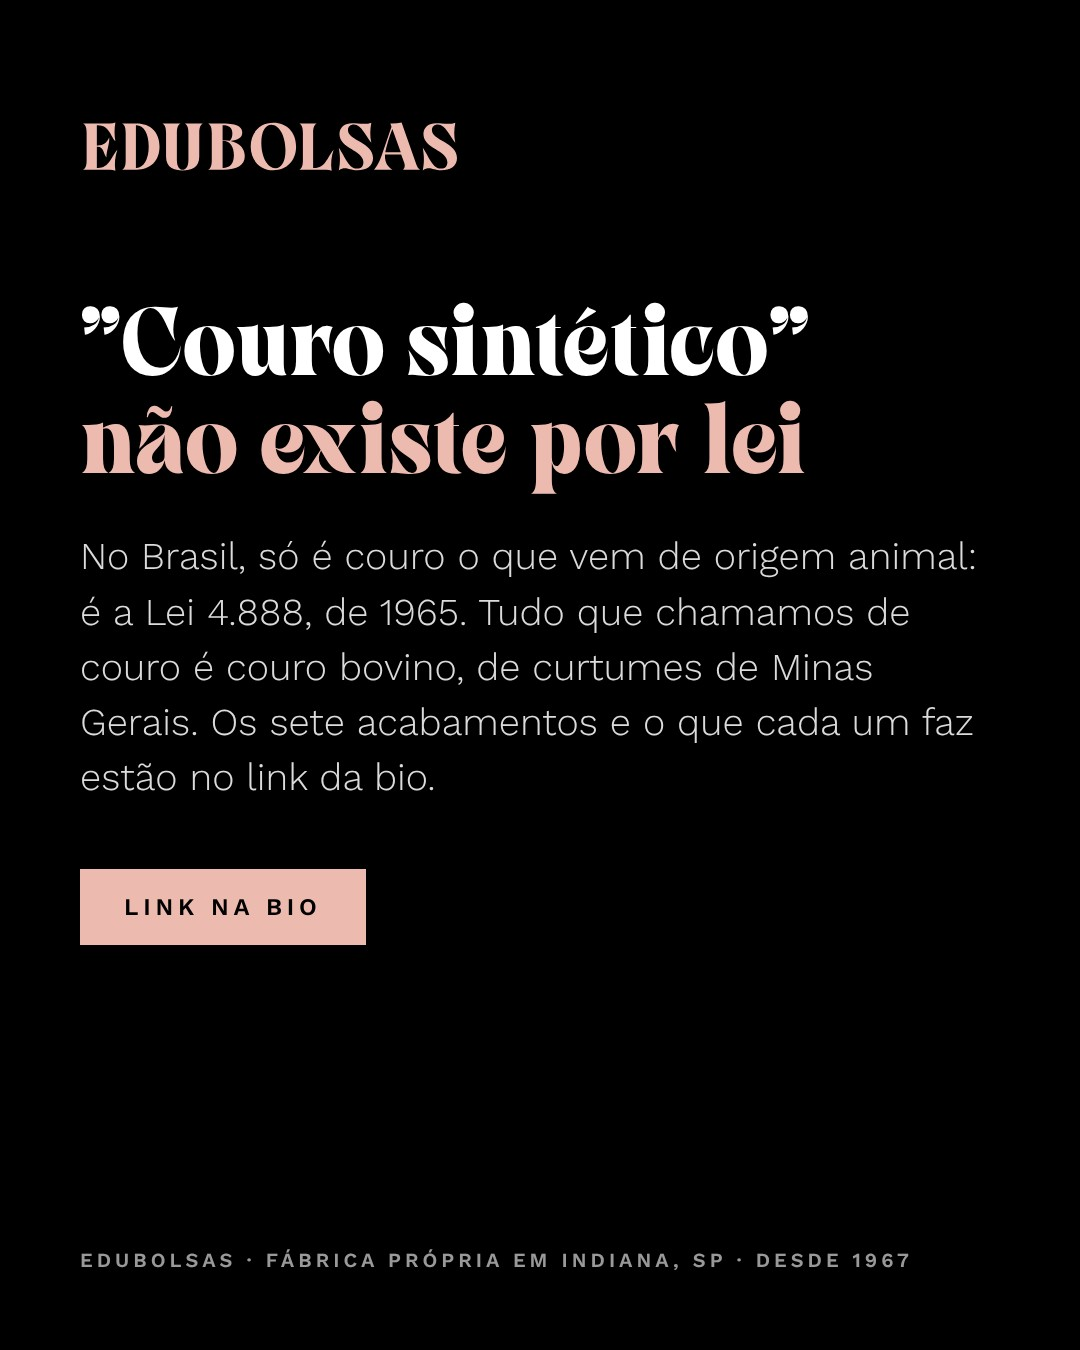
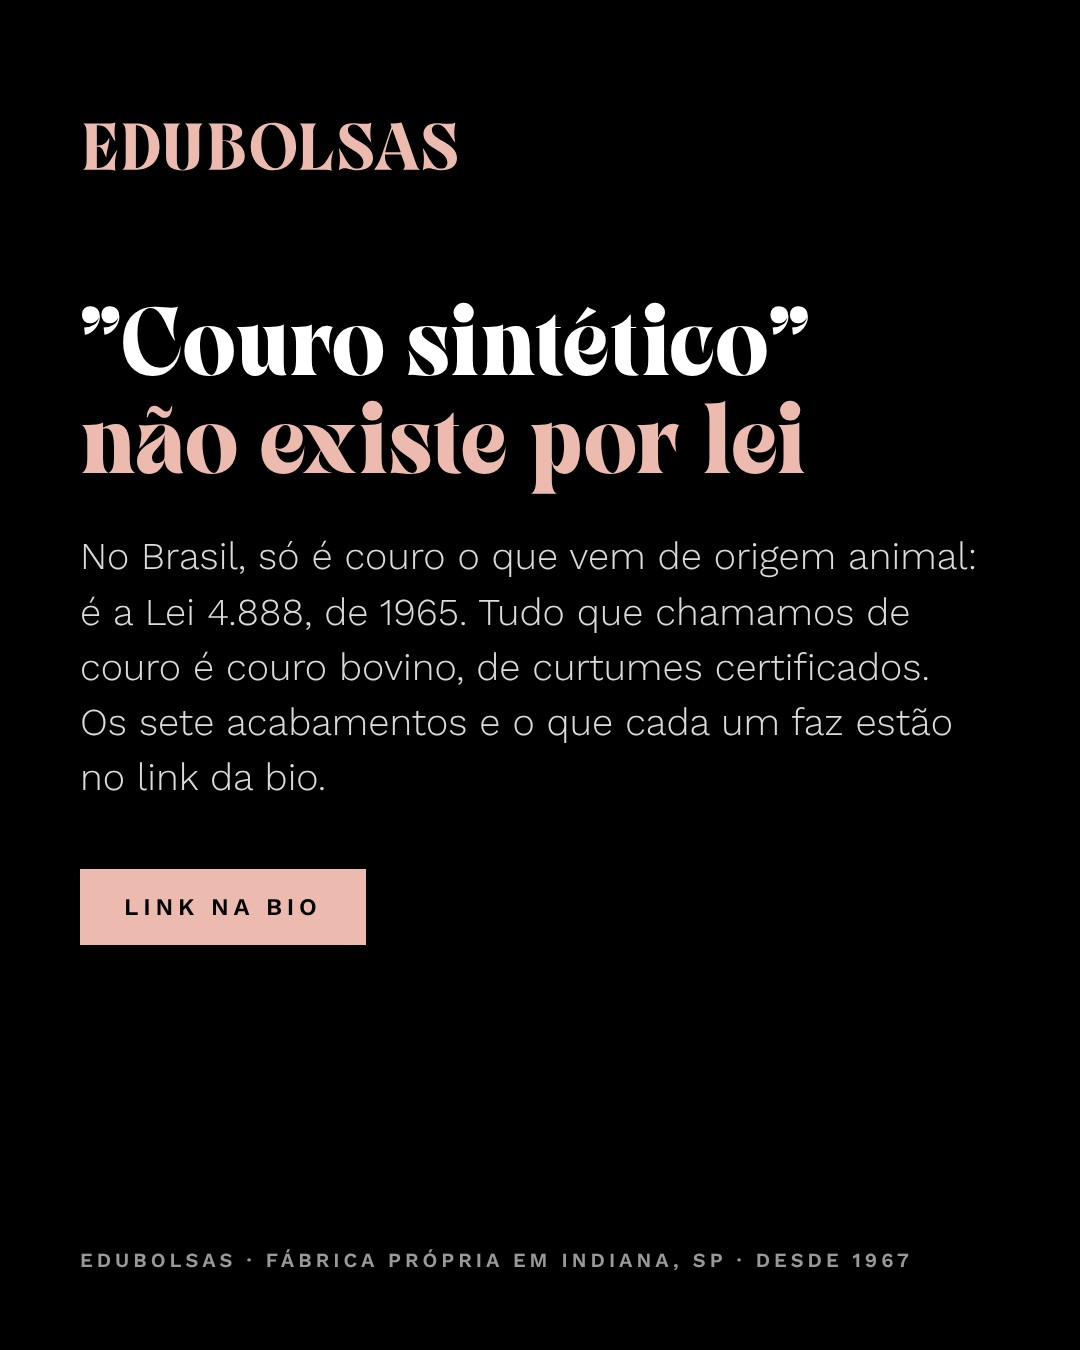
Troca "curtumes de Minas Gerais" por "curtumes certificados" nas artes e nos e-mails
Claude-Session: https://claude.ai/code/session_01MerzcwDbRuXYT3xBU3H5Yw

Changed region(s): [[0.0611, 0.4667, 0.8861, 0.5911]]

diff --git a/divulgacao/emails/etapa2-atacado.html b/divulgacao/emails/etapa2-atacado.html
@@ -3,6 +3,6 @@
 <tr><td style="padding:0;"><a href="None"><img src="https://raw.githubusercontent.com/edubolsassite-gif/edubolsasstore-redirect/claude/laughing-galileo-c6bj91/public/img/divulgacao/fotos/tassel-verso-couro.jpg" alt="Tassel de couro legítimo com o verso aveludado à vista, bolsas da Edubolsas" width="600" style="display:block;width:100%;height:auto;border:0;"></a></td></tr>
 <tr><td class="eb-pad" style="padding:28px 32px 6px 32px;"><p style="margin:0 0 6px 0;font-size:11px;line-height:1.4;letter-spacing:2px;text-transform:uppercase;color:#C8907F;font-weight:bold;">Fábrica Edubolsas · Indiana, SP</p><h1 style="margin:0 0 18px 0;font-size:26px;line-height:1.25;color:#000000;font-weight:bold;">O argumento de venda que a sua cliente entende: couro de verdade</h1><p style="margin:0 0 18px 0;font-size:16px;line-height:1.65;color:#3a3a3a;">Olá, {{ contact.NOME|lower|title }},</p><p style="margin:0 0 14px 0;font-size:16px;line-height:1.65;color:#3a3a3a;">Quando a cliente pergunta "é couro mesmo?", a resposta está nesta página: o verso da pele, o cheiro, a dobra e o fato de que couro não descasca. E ainda a lei do couro, que proíbe chamar sintético de couro.</p></td></tr>
 <tr><td class="eb-pad" align="left" style="padding:6px 32px 18px 32px;"><table role="presentation" cellpadding="0" cellspacing="0" border="0"><tr><td bgcolor="#000000" style="background:#000000;"><a href="None" style="display:inline-block;padding:15px 30px;font-size:12px;line-height:16px;font-weight:bold;color:#FFFFFF;text-decoration:none;letter-spacing:2px;text-transform:uppercase;">Ver qual couro usamos</a></td></tr></table></td></tr>
-<tr><td class="eb-pad" style="padding:4px 28px 6px 28px;"><table role="presentation" width="100%" cellpadding="0" cellspacing="0" border="0"><tr><td width="33%" style="padding:0 4px;"><a href="None"><img src="https://raw.githubusercontent.com/edubolsassite-gif/edubolsasstore-redirect/claude/laughing-galileo-c6bj91/public/img/divulgacao/etapa2-couro-de-verdade/slide-02.jpg" alt="" width="176" style="display:block;width:100%;height:auto;border:0;"></a></td><td width="33%" style="padding:0 4px;"><a href="None"><img src="https://raw.githubusercontent.com/edubolsassite-gif/edubolsasstore-redirect/claude/laughing-galileo-c6bj91/public/img/divulgacao/etapa2-couro-de-verdade/slide-03.jpg" alt="" width="176" style="display:block;width:100%;height:auto;border:0;"></a></td><td width="33%" style="padding:0 4px;"><a href="None"><img src="https://raw.githubusercontent.com/edubolsassite-gif/edubolsasstore-redirect/claude/laughing-galileo-c6bj91/public/img/divulgacao/etapa2-couro-de-verdade/slide-04.jpg" alt="" width="176" style="display:block;width:100%;height:auto;border:0;"></a></td></tr></table></td></tr><tr><td class="eb-pad" style="padding:0 32px 16px 32px;"><p style="margin:0;font-size:13px;line-height:1.6;color:#6b5a54;">Este tema também está no nosso <a href="https://www.instagram.com/edubolsasoficial" style="color:#6b5a54;text-decoration:underline;">Instagram</a>, em carrossel.</p></td></tr><tr><td class="eb-pad" style="padding:6px 32px 4px 32px;"><p style="margin:0 0 14px 0;font-size:15px;line-height:1.65;color:#3a3a3a;">Todas as nossas peças são de couro bovino, de curtumes de Minas Gerais, com certificado de autenticidade e garantia de fábrica de 1 ano para lojistas. A página também explica qual acabamento combina com cada tipo de bolsa, o que ajuda a montar o mix da loja.</p></td></tr><tr><td class="eb-pad" style="padding:0 32px 12px 32px;"><p style="margin:0;font-size:14px;line-height:1.65;"><a href="None" style="color:#000000;font-weight:bold;text-decoration:underline;">Catálogo de atacado →</a></p></td></tr>
+<tr><td class="eb-pad" style="padding:4px 28px 6px 28px;"><table role="presentation" width="100%" cellpadding="0" cellspacing="0" border="0"><tr><td width="33%" style="padding:0 4px;"><a href="None"><img src="https://raw.githubusercontent.com/edubolsassite-gif/edubolsasstore-redirect/claude/laughing-galileo-c6bj91/public/img/divulgacao/etapa2-couro-de-verdade/slide-02.jpg" alt="" width="176" style="display:block;width:100%;height:auto;border:0;"></a></td><td width="33%" style="padding:0 4px;"><a href="None"><img src="https://raw.githubusercontent.com/edubolsassite-gif/edubolsasstore-redirect/claude/laughing-galileo-c6bj91/public/img/divulgacao/etapa2-couro-de-verdade/slide-03.jpg" alt="" width="176" style="display:block;width:100%;height:auto;border:0;"></a></td><td width="33%" style="padding:0 4px;"><a href="None"><img src="https://raw.githubusercontent.com/edubolsassite-gif/edubolsasstore-redirect/claude/laughing-galileo-c6bj91/public/img/divulgacao/etapa2-couro-de-verdade/slide-04.jpg" alt="" width="176" style="display:block;width:100%;height:auto;border:0;"></a></td></tr></table></td></tr><tr><td class="eb-pad" style="padding:0 32px 16px 32px;"><p style="margin:0;font-size:13px;line-height:1.6;color:#6b5a54;">Este tema também está no nosso <a href="https://www.instagram.com/edubolsasoficial" style="color:#6b5a54;text-decoration:underline;">Instagram</a>, em carrossel.</p></td></tr><tr><td class="eb-pad" style="padding:6px 32px 4px 32px;"><p style="margin:0 0 14px 0;font-size:15px;line-height:1.65;color:#3a3a3a;">Todas as nossas peças são de couro bovino, de curtumes certificados, com certificado de autenticidade e garantia de fábrica de 1 ano para lojistas. A página também explica qual acabamento combina com cada tipo de bolsa, o que ajuda a montar o mix da loja.</p></td></tr><tr><td class="eb-pad" style="padding:0 32px 12px 32px;"><p style="margin:0;font-size:14px;line-height:1.65;"><a href="None" style="color:#000000;font-weight:bold;text-decoration:underline;">Catálogo de atacado →</a></p></td></tr>
 <tr><td class="eb-pad" style="padding:20px 32px 24px 32px;"><p style="margin:0 0 14px 0;font-size:15px;line-height:1.6;color:#3a3a3a;">Um abraço,<br><strong style="color:#000000;">Equipe Edubolsas</strong><br><span style="font-size:13px;color:#6b5a54;">Da nossa fábrica em Indiana-SP, desde 1967.</span></p><p style="margin:0;font-size:12px;line-height:1.9;color:#555555;"><span style="white-space:nowrap;"><span style="color:#C8907F;">&#9632;</span> Couro legítimo</span> &nbsp;&nbsp; <span style="white-space:nowrap;"><span style="color:#C8907F;">&#9632;</span> Fabricação própria desde 1967</span> &nbsp;&nbsp; <span style="white-space:nowrap;"><span style="color:#C8907F;">&#9632;</span> Garantia de fábrica de 1 ano para lojistas</span></p><p style="margin:10px 0 0 0;font-size:13px;line-height:1.6;color:#3a3a3a;">WhatsApp: (18) 3995-1124 · edubolsas@edubolsas.com.br</p></td></tr>
 <tr><td class="eb-pad" style="padding:18px 32px 22px 32px;background:#FBF4F1;border-top:1px solid #EDBAAF;"><p style="margin:0 0 8px 0;font-size:12px;line-height:1.6;color:#6b5a54;">Você recebeu este e-mail porque é lojista cadastrado na Edubolsas. Se não quiser mais receber nossos e-mails, é só <a href="{{ unsubscribe }}" style="color:#6b5a54;text-decoration:underline;">cancelar a inscrição</a>.</p><p style="margin:0 0 8px 0;font-size:12px;line-height:1.6;color:#6b5a54;"><a href="None" style="color:#6b5a54;text-decoration:underline;">edubolsas.com.br</a> &nbsp;·&nbsp; <a href="https://www.instagram.com/edubolsasoficial" style="color:#6b5a54;text-decoration:underline;">Instagram</a> &nbsp;·&nbsp; <a href="{{ mirror }}" style="color:#6b5a54;text-decoration:underline;">Ver no navegador</a></p><p style="margin:0;font-size:11px;line-height:1.6;color:#8a7a74;">Bolsas e Cintos São Jorge LTDA · CNPJ 48.814.255/0001-14 · Rua Dr. João Munhoz, 366, Centro, Indiana-SP, CEP 19560-013</p></td></tr></table></td></tr></table></body></html>

diff --git a/divulgacao/emails/etapa2-varejo.html b/divulgacao/emails/etapa2-varejo.html
@@ -1,7 +1,7 @@
 <!DOCTYPE html><html lang="pt-BR"><head><meta http-equiv="Content-Type" content="text/html;charset=UTF-8"><meta name="viewport" content="width=device-width, initial-scale=1"><meta name="color-scheme" content="light only"><title>"Couro sintético" não existe. Veja como reconhecer o de verdade</title><!--[if !mso]><!--><link href="https://fonts.googleapis.com/css2?family=Work+Sans:wght@400;500;700&amp;display=swap" rel="stylesheet" type="text/css"><!--<![endif]--><style type="text/css">body{margin:0;padding:0;background:#F5EDE8;-webkit-text-size-adjust:100%;}img{border:0;outline:none;text-decoration:none;}table{border-collapse:collapse;}@media only screen and (max-width:620px){.eb-pad{padding-left:20px !important;padding-right:20px !important;}.eb-outer{padding:0 !important;}}</style></head><body style="margin:0;padding:0;background:#F5EDE8;"><div style="display:none;max-height:0;overflow:hidden;mso-hide:all;font-size:1px;line-height:1px;color:#F5EDE8;">Quatro sinais que não falham, e o que diz a lei do couro.</div><table role="presentation" width="100%" cellpadding="0" cellspacing="0" border="0" bgcolor="#F5EDE8" style="background:#F5EDE8;"><tr><td class="eb-outer" align="center" style="padding:24px 12px;"><table role="presentation" width="600" cellpadding="0" cellspacing="0" border="0" style="width:100%;max-width:600px;background:#FFFFFF;font-family:'Work Sans',Arial,Helvetica,sans-serif;color:#1A1A1A;">
 <tr><td align="center" style="padding:22px 24px 18px 24px;border-bottom:1px solid #EDBAAF;"><a href="None" style="text-decoration:none;"><img src="https://edubolsas.cdn.magazord.com.br/resources/logo-email.jpg" alt="Edubolsas" width="230" style="display:block;width:230px;max-width:70%;height:auto;border:0;"></a></td></tr>
 <tr><td style="padding:0;"><a href="None"><img src="https://raw.githubusercontent.com/edubolsassite-gif/edubolsasstore-redirect/claude/laughing-galileo-c6bj91/public/img/divulgacao/fotos/tassel-verso-couro.jpg" alt="Tassel de couro legítimo com o verso aveludado à vista, bolsas da Edubolsas" width="600" style="display:block;width:100%;height:auto;border:0;"></a></td></tr>
-<tr><td class="eb-pad" style="padding:28px 32px 6px 32px;"><p style="margin:0 0 6px 0;font-size:11px;line-height:1.4;letter-spacing:2px;text-transform:uppercase;color:#C8907F;font-weight:bold;">Fábrica Edubolsas · Indiana, SP</p><h1 style="margin:0 0 18px 0;font-size:26px;line-height:1.25;color:#000000;font-weight:bold;">"Couro sintético" não existe. Veja como reconhecer o de verdade</h1><p style="margin:0 0 18px 0;font-size:16px;line-height:1.65;color:#3a3a3a;">Olá, {{ contact.NOME|lower|title }},</p><p style="margin:0 0 14px 0;font-size:16px;line-height:1.65;color:#3a3a3a;">No Brasil, a palavra couro só pode ser usada para material de origem animal. É a Lei 4.888, de 1965. Tudo o que chamamos de couro na Edubolsas é couro bovino, de curtumes de Minas Gerais.</p><p style="margin:0 0 14px 0;font-size:16px;line-height:1.65;color:#3a3a3a;">Na página nova, contamos o que é o curtimento, para que serve cada um dos sete acabamentos que trabalhamos e os quatro sinais para reconhecer couro de verdade na mão: o verso, o cheiro, a dobra e o fato de que couro não descasca.</p></td></tr>
+<tr><td class="eb-pad" style="padding:28px 32px 6px 32px;"><p style="margin:0 0 6px 0;font-size:11px;line-height:1.4;letter-spacing:2px;text-transform:uppercase;color:#C8907F;font-weight:bold;">Fábrica Edubolsas · Indiana, SP</p><h1 style="margin:0 0 18px 0;font-size:26px;line-height:1.25;color:#000000;font-weight:bold;">"Couro sintético" não existe. Veja como reconhecer o de verdade</h1><p style="margin:0 0 18px 0;font-size:16px;line-height:1.65;color:#3a3a3a;">Olá, {{ contact.NOME|lower|title }},</p><p style="margin:0 0 14px 0;font-size:16px;line-height:1.65;color:#3a3a3a;">No Brasil, a palavra couro só pode ser usada para material de origem animal. É a Lei 4.888, de 1965. Tudo o que chamamos de couro na Edubolsas é couro bovino, de curtumes certificados.</p><p style="margin:0 0 14px 0;font-size:16px;line-height:1.65;color:#3a3a3a;">Na página nova, contamos o que é o curtimento, para que serve cada um dos sete acabamentos que trabalhamos e os quatro sinais para reconhecer couro de verdade na mão: o verso, o cheiro, a dobra e o fato de que couro não descasca.</p></td></tr>
 <tr><td class="eb-pad" align="left" style="padding:6px 32px 18px 32px;"><table role="presentation" cellpadding="0" cellspacing="0" border="0"><tr><td bgcolor="#000000" style="background:#000000;"><a href="None" style="display:inline-block;padding:15px 30px;font-size:12px;line-height:16px;font-weight:bold;color:#FFFFFF;text-decoration:none;letter-spacing:2px;text-transform:uppercase;">Ver qual couro usamos</a></td></tr></table></td></tr>
 <tr><td class="eb-pad" style="padding:4px 28px 6px 28px;"><table role="presentation" width="100%" cellpadding="0" cellspacing="0" border="0"><tr><td width="33%" style="padding:0 4px;"><a href="None"><img src="https://raw.githubusercontent.com/edubolsassite-gif/edubolsasstore-redirect/claude/laughing-galileo-c6bj91/public/img/divulgacao/etapa2-couro-de-verdade/slide-02.jpg" alt="" width="176" style="display:block;width:100%;height:auto;border:0;"></a></td><td width="33%" style="padding:0 4px;"><a href="None"><img src="https://raw.githubusercontent.com/edubolsassite-gif/edubolsasstore-redirect/claude/laughing-galileo-c6bj91/public/img/divulgacao/etapa2-couro-de-verdade/slide-03.jpg" alt="" width="176" style="display:block;width:100%;height:auto;border:0;"></a></td><td width="33%" style="padding:0 4px;"><a href="None"><img src="https://raw.githubusercontent.com/edubolsassite-gif/edubolsasstore-redirect/claude/laughing-galileo-c6bj91/public/img/divulgacao/etapa2-couro-de-verdade/slide-04.jpg" alt="" width="176" style="display:block;width:100%;height:auto;border:0;"></a></td></tr></table></td></tr><tr><td class="eb-pad" style="padding:0 32px 16px 32px;"><p style="margin:0;font-size:13px;line-height:1.6;color:#6b5a54;">Este tema também está no nosso <a href="https://www.instagram.com/edubolsasoficial" style="color:#6b5a54;text-decoration:underline;">Instagram</a>, em carrossel.</p></td></tr><tr><td class="eb-pad" style="padding:6px 32px 10px 32px;"><table role="presentation" width="100%" cellpadding="0" cellspacing="0" border="0"><tr><td style="background:#F6EFEB;padding:16px 18px;"><p style="margin:0;font-size:14px;line-height:1.6;color:#3a3a3a;"><strong>Dica da fábrica:</strong> croco, snake e arraia são couro bovino com a textura gravada. A gravação deixa o couro mais firme, e por isso esses acabamentos vão em bolsas estruturadas, nunca em modelos macios.</p></td></tr></table></td></tr><tr><td class="eb-pad" style="padding:6px 32px 4px 32px;"></td></tr>
 <tr><td class="eb-pad" style="padding:20px 32px 24px 32px;"><p style="margin:0 0 14px 0;font-size:15px;line-height:1.6;color:#3a3a3a;">Um abraço,<br><strong style="color:#000000;">Equipe Edubolsas</strong><br><span style="font-size:13px;color:#6b5a54;">Da nossa fábrica em Indiana-SP, desde 1967.</span></p><p style="margin:0;font-size:12px;line-height:1.9;color:#555555;"><span style="white-space:nowrap;"><span style="color:#C8907F;">&#9632;</span> Couro legítimo</span> &nbsp;&nbsp; <span style="white-space:nowrap;"><span style="color:#C8907F;">&#9632;</span> Fabricação própria desde 1967</span> &nbsp;&nbsp; <span style="white-space:nowrap;"><span style="color:#C8907F;">&#9632;</span> Garantia de 2 anos</span></p><p style="margin:10px 0 0 0;font-size:13px;line-height:1.6;color:#3a3a3a;">WhatsApp: (18) 3995-1124 · edubolsas@edubolsas.com.br</p></td></tr>
